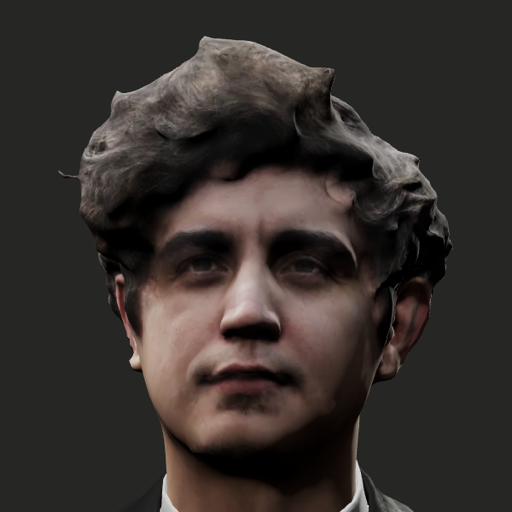
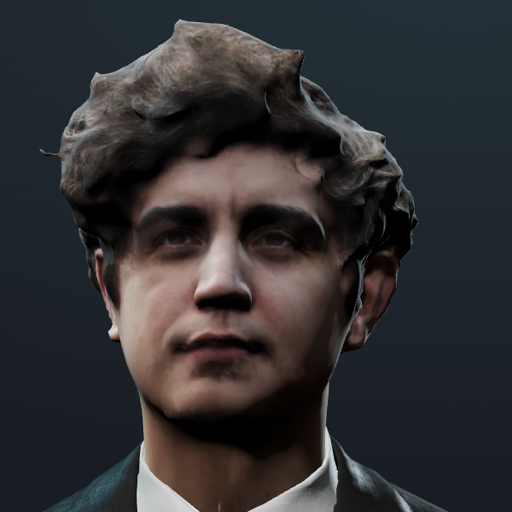
Adopt the Slate palette site-wide
Slate (cool charcoal, muted ice-cyan accent, faint glows) replaces Studio
Noir's warm charcoal, as chosen by Efraim after the theme trials.

- Trial comments renamed; AGENTS.md, DESIGN_DIRECTIONS.md and
  TECH_STACK.md describe Slate and its rules (neutral light on the face,
  neon only on rims and small accents).
- Stills re-rendered: no-WebGL poster, social card, icons.

diff --git a/src/components/scene/Experience.tsx b/src/components/scene/Experience.tsx
@@ -26,13 +26,13 @@ export default function Experience() {
           camera={{ fov: 26 }}
           gl={{ antialias: true, alpha: true }}
         >
-          {/* Neon trial: transparent canvas, so the page's gradient
+          {/* Transparent canvas, so the page's gradient
               atmosphere sits behind the bust instead of tinting it. */}
           <CameraRig focus={focus} />
 
           {/* Studio rig: soft key from front-left, thin rim from behind, faint fill. */}
           <directionalLight position={[-2.5, 3, 2.5]} intensity={3} />
-          {/* Theme trial: the face keeps neutral light; colour only rims the
+          {/* Slate rig: the face keeps neutral light; colour only rims the
               silhouette, from well behind so it doesn't spill onto the front. */}
           <directionalLight position={[3.5, 2.2, -4.5]} intensity={5.2} color={palette.accent2} />
           <directionalLight position={[-2.5, 3.5, -5]} intensity={2.6} color={palette.accent} />

diff --git a/src/app/globals.css b/src/app/globals.css
@@ -1,5 +1,5 @@
-/* Theme trial (branch theme-neon): "Slate", between Studio Noir and Ice.
-   Cool charcoal, a muted ice-cyan accent, glows kept faint.
+/* "Slate" (chosen 2026-11-21): cool charcoal, a muted ice-cyan accent,
+   glows kept faint. Successor to Studio Noir; see docs/DESIGN_DIRECTIONS.md.
    Keep in sync with src/content/palette.ts. */
 :root {
   --ink: #191d23;
@@ -50,7 +50,7 @@ html {
 
 body {
   min-height: 100svh;
-  /* Theme trial: a faint ice haze top-right, behind the (transparent)
+  /* A faint ice haze top-right, behind the (transparent)
      3D canvas. */
   background:
     radial-gradient(60% 50% at 85% 10%, rgb(var(--accent-rgb) / 0.11), transparent 70%) fixed,

diff --git a/src/content/palette.ts b/src/content/palette.ts
@@ -1,4 +1,4 @@
-// Theme trial (branch theme-neon): "Slate", between Studio Noir and Ice.
+// "Slate" (chosen 2026-11-21): cool charcoal, muted ice-cyan accent.
 // Mirrors the CSS tokens in app/globals.css — the 3D scene needs raw hex.
 export const palette = {
   ink: "#191d23",

diff --git a/src/app/work/page.module.css b/src/app/work/page.module.css
@@ -25,7 +25,7 @@
   border-top: 1px solid var(--hairline);
 }
 
-/* Neon trial (branch theme-neon). */
+/* Slate: accent labels, glows and hover states. */
 .eyebrow {
   color: var(--accent-2);
   text-shadow: var(--glow-cyan);

diff --git a/src/components/site/SiteHeader.module.css b/src/components/site/SiteHeader.module.css
@@ -95,7 +95,7 @@
   }
 }
 
-/* Neon trial (branch theme-neon). */
+/* Slate: accent labels, glows and hover states. */
 .link[aria-current="page"] {
   color: var(--accent-2);
   text-decoration-color: var(--accent-2);

diff --git a/src/components/work/VideoEmbed.module.css b/src/components/work/VideoEmbed.module.css
@@ -45,7 +45,7 @@
   text-transform: uppercase;
 }
 
-/* Neon trial (branch theme-neon). */
+/* Slate: accent labels, glows and hover states. */
 .play {
   color: var(--accent-2);
   border: 1px solid var(--accent-2);

diff --git a/src/app/work/[slug]/page.module.css b/src/app/work/[slug]/page.module.css
@@ -154,7 +154,7 @@
   color: var(--muted);
 }
 
-/* Neon trial (branch theme-neon). */
+/* Slate: accent labels, glows and hover states. */
 .heading {
   color: var(--accent-2);
   text-shadow: var(--glow-cyan);

diff --git a/src/app/page.module.css b/src/app/page.module.css
@@ -279,7 +279,7 @@
   }
 }
 
-/* Neon trial (branch theme-neon). */
+/* Slate: accent labels, glows and hover states. */
 .eyebrow {
   color: var(--accent-2);
   text-shadow: var(--glow-cyan);

diff --git a/src/components/home/BuildNotes.module.css b/src/components/home/BuildNotes.module.css
@@ -173,7 +173,7 @@
   }
 }
 
-/* Neon trial (branch theme-neon). */
+/* Slate: accent labels, glows and hover states. */
 .trigger {
   color: var(--accent);
   text-shadow: var(--glow-text);

diff --git a/src/components/site/ScrollCue.module.css b/src/components/site/ScrollCue.module.css
@@ -113,7 +113,7 @@
   }
 }
 
-/* Neon trial (branch theme-neon). */
+/* Slate: accent labels, glows and hover states. */
 .label {
   color: var(--accent-2);
   text-shadow: var(--glow-cyan);

diff --git a/src/app/about/page.module.css b/src/app/about/page.module.css
@@ -140,7 +140,7 @@
   }
 }
 
-/* Neon trial (branch theme-neon). */
+/* Slate: accent labels, glows and hover states. */
 .eyebrow,
 .heading {
   color: var(--accent-2);

diff --git a/src/components/work/ProjectRow.module.css b/src/components/work/ProjectRow.module.css
@@ -73,7 +73,7 @@
   }
 }
 
-/* Neon trial (branch theme-neon). */
+/* Slate: accent labels, glows and hover states. */
 .index {
   color: var(--accent-2);
 }
